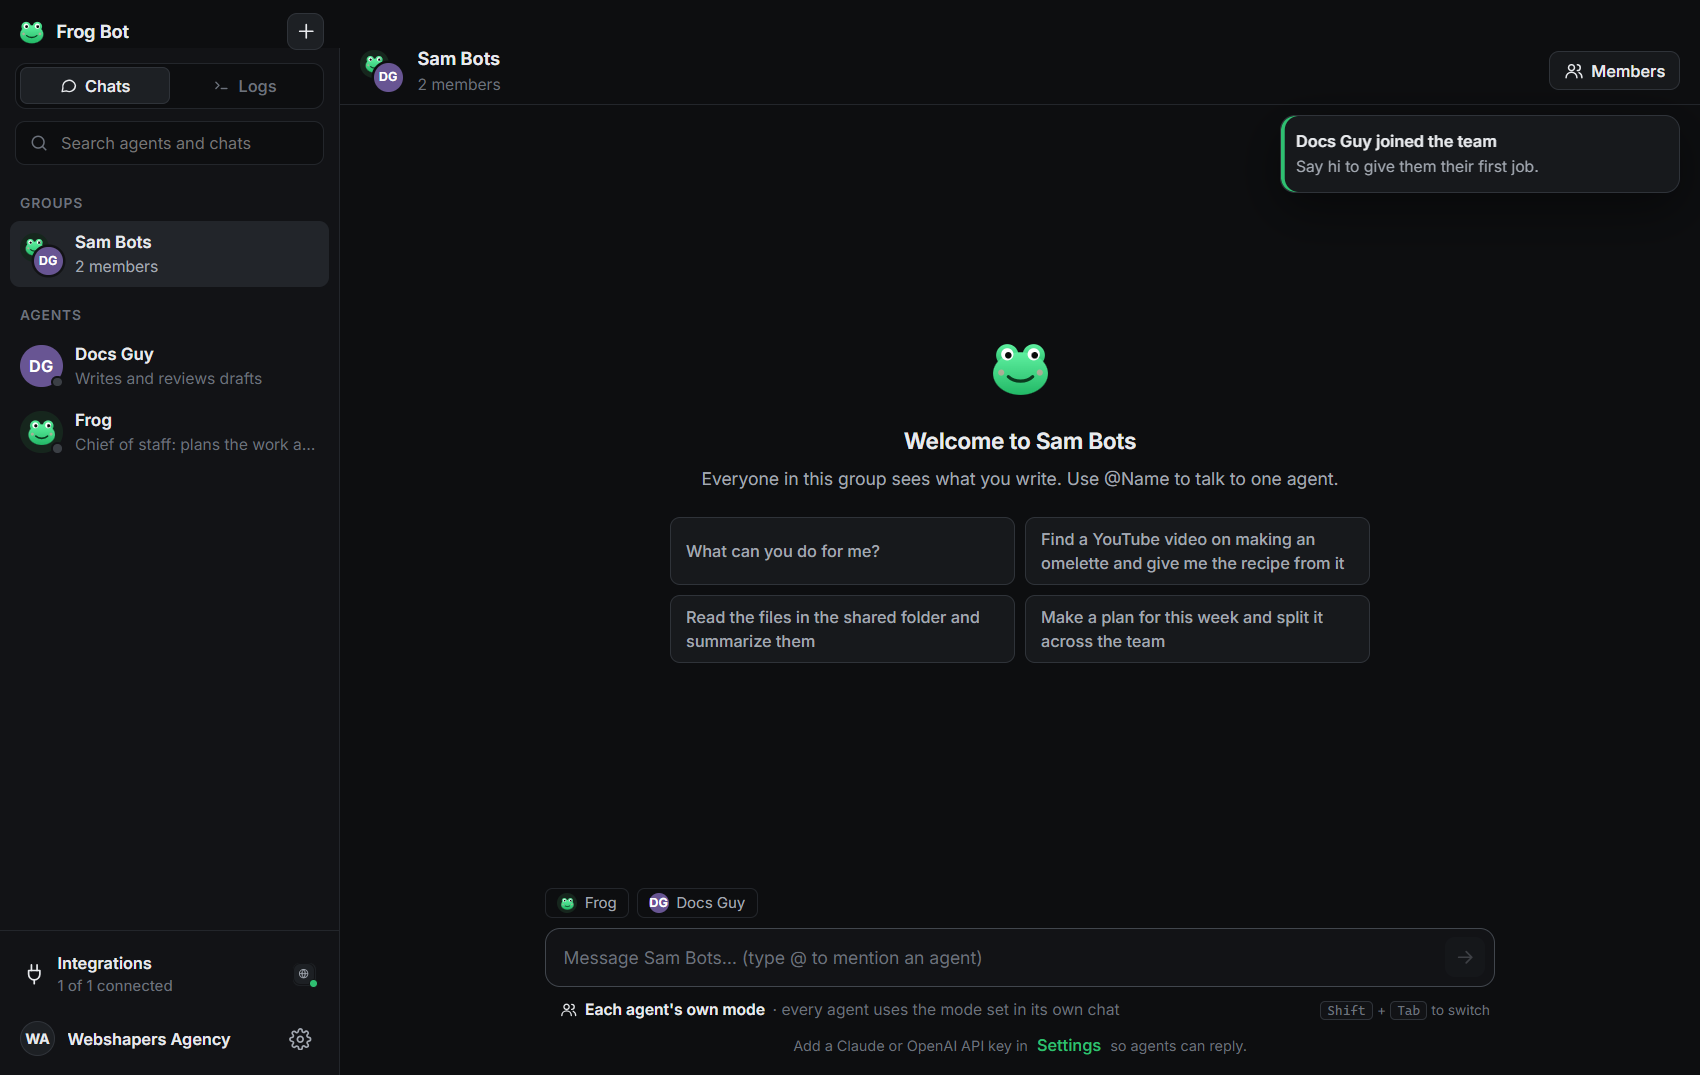
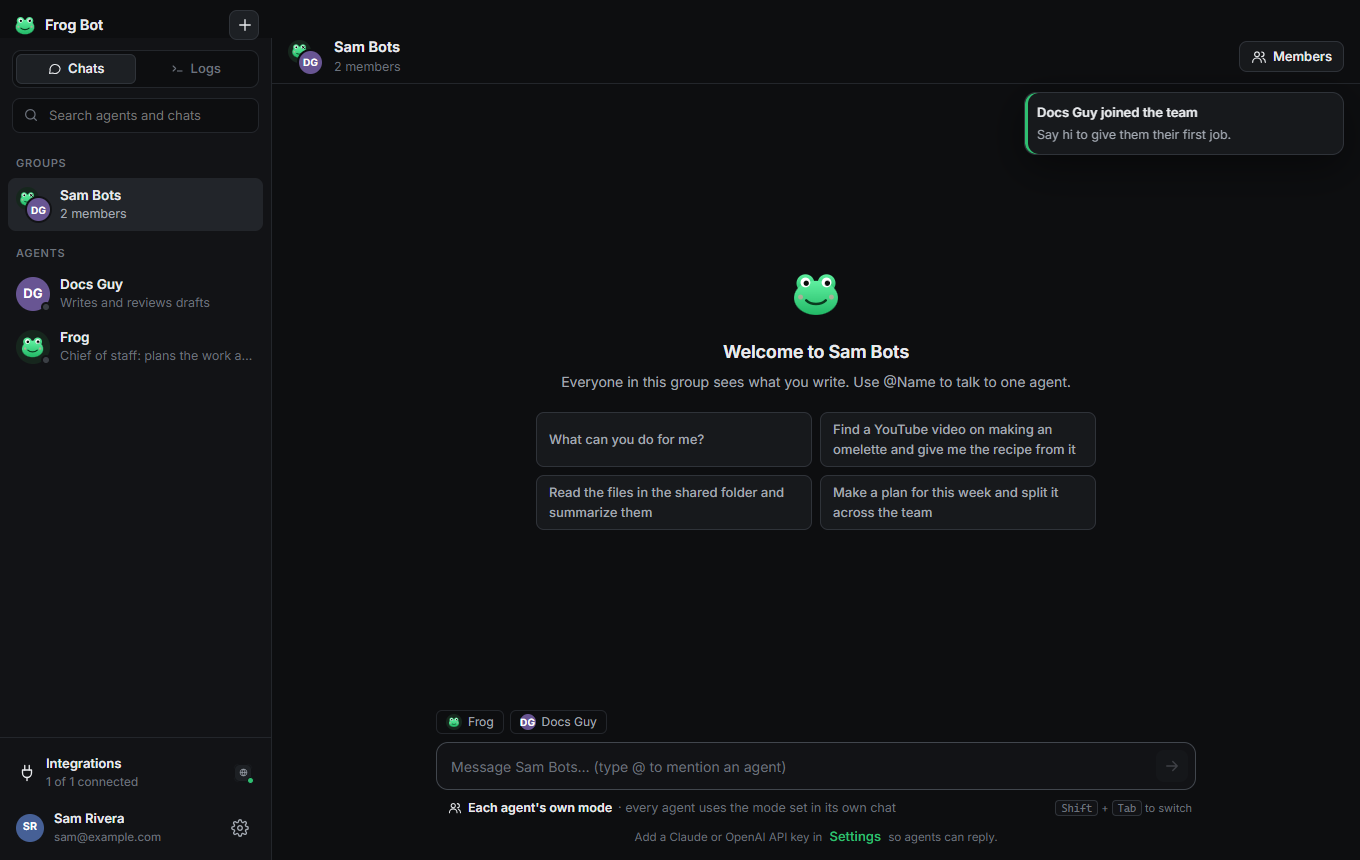
Integrations adjustment

diff --git a/src/main/smoke.ts b/src/main/smoke.ts
@@ -4,7 +4,8 @@ import type { BrowserWindow } from 'electron';
 import type { FrogEngine } from '../core/engine';
 
 interface SmokeContext {
-  engine: FrogEngine;
+  /** The running team (it only exists once someone is signed in). */
+  engine: () => FrogEngine;
   window: BrowserWindow;
   outDir: string;
 }
@@ -22,12 +23,13 @@ const sleep = (ms: number) => new Promise((r) => setTimeout(r, ms));
  * clicks through every screen, saves a screenshot of each, and writes
  * results.json. Exit code 0 means every check passed.
  */
-export async function runSmoke({ engine, window, outDir }: SmokeContext): Promise<number> {
+export async function runSmoke({ engine: getEngine, window, outDir }: SmokeContext): Promise<number> {
   fs.mkdirSync(outDir, { recursive: true });
   const checks: Check[] = [];
+  let engine!: FrogEngine;
   const check = (name: string, ok: boolean, detail?: string) => {
     checks.push({ name, ok, detail });
-    engine.log.info('smoke', `${ok ? 'PASS' : 'FAIL'} ${name}`, detail);
+    engine?.log.info('smoke', `${ok ? 'PASS' : 'FAIL'} ${name}`, detail);
   };
   const js = <T>(code: string) => window.webContents.executeJavaScript(code, true) as Promise<T>;
   const waitFor = async (code: string, timeoutMs = 15000) => {
@@ -110,7 +112,23 @@ export async function runSmoke({ engine, window, outDir }: SmokeContext): Promis
       window.showInactive();
     }
 
+    // FROG_SMOKE_AUTH: start signed out and create an account through the real screen.
+    if (process.env.FROG_SMOKE_AUTH) {
+      check('Sign-in screen shows when signed out', await waitFor(`document.querySelector('[data-testid="auth-screen"]')`, 20000));
+      await click('[data-testid="auth-to-sign-up"]');
+      await typeInto('[data-testid="auth-name"]', 'Sam Rivera');
+      await typeInto('[data-testid="auth-email"]', 'sam@example.com');
+      await typeInto('[data-testid="auth-password"]', '12345');
+      await click('[data-testid="auth-submit"]');
+      check('Password under 6 characters is refused', await waitFor(`document.querySelector('[data-testid="auth-error"]')?.textContent.includes('6 characters')`, 5000));
+      await typeInto('[data-testid="auth-password"]', 'frog-123');
+      await sleep(200);
+      await shot('00-sign-up');
+      await click('[data-testid="auth-submit"]');
+    }
+
     check('UI loads', await waitFor(`document.querySelector('[data-testid="app-ready"]')`, 20000));
+    engine = getEngine();
     if (!process.env.FROG_SMOKE_LIVE) check('Onboarding shows when there is no API key', await waitFor(`document.querySelector('[data-testid="onboarding"]')`, 5000));
     await shot('01-onboarding');
     await click('[data-testid="onboarding-skip"]');
@@ -323,6 +341,15 @@ export async function runSmoke({ engine, window, outDir }: SmokeContext): Promis
     check('Log file written', fs.readdirSync(engine.paths.logsDir).some((f) => f.endsWith('.log')));
     engine.flush();
     check('State saved', fs.existsSync(path.join(engine.paths.stateDir, 'agents.json')));
+
+    if (process.env.FROG_SMOKE_AUTH) {
+      check('Team lives in the account folder', engine.paths.root.includes(`${path.sep}accounts${path.sep}`));
+      await click('[data-testid="open-profile"]');
+      check('Profile opens from the sidebar', await waitFor(`document.querySelector('[data-testid="profile-sheet"]')`, 5000));
+      await shot('00b-profile');
+      await click('[data-testid="sign-out"]');
+      check('Sign out returns to the sign-in screen', await waitFor(`document.querySelector('[data-testid="auth-screen"]')`, 15000));
+    }
   } catch (err) {
     check('Smoke run finished without crashing', false, err instanceof Error ? err.stack : String(err));
   }

diff --git a/src/main/main.ts b/src/main/main.ts
@@ -18,7 +18,7 @@ import {
 } from 'electron';
 import config from '../../config/frogbot.config.json';
 import { FrogEngine, defaultPlatformName, type AppConfig, type EngineHost } from '../core/engine';
-import { AccountManager, SupabaseAuth } from '../core/auth';
+import { AccountManager, MemoryAuth, SupabaseAuth } from '../core/auth';
 import { FrogPaths } from '../core/paths';
 import { FileSecretBox } from '../core/secrets';
 import { AUTH_API_METHODS, FROG_API_METHODS, type AuthApi, type FrogApi } from '../shared/types';
@@ -122,13 +122,18 @@ const host: EngineHost = {
 // The self-test uses a throwaway folder; skip the keychain so it can never prompt.
 const encryptionAvailable = () => !smokeDir && safeStorage.isEncryptionAvailable();
 
-/** Accounts are on when the app ships with a sign-in service (never in the self-test). */
+/**
+ * Accounts are on when the app ships with a sign-in service. The self-test never
+ * uses the real one: FROG_SMOKE_AUTH gives it a sign-in service in memory.
+ */
 function createAccounts() {
   const base = new FrogPaths(smokeDir ? path.join(smokeDir, 'FrogsWorld') : undefined).root;
   const settings = (config as { accounts?: { supabaseUrl?: string; supabaseAnonKey?: string } }).accounts ?? {};
   const supabaseUrl = process.env.FROG_SUPABASE_URL || settings.supabaseUrl || '';
   const supabaseAnonKey = process.env.FROG_SUPABASE_ANON_KEY || settings.supabaseAnonKey || '';
-  const backend = !smokeDir && supabaseUrl && supabaseAnonKey ? new SupabaseAuth({ supabaseUrl, supabaseAnonKey }) : null;
+  const backend = smokeDir
+    ? process.env.FROG_SMOKE_AUTH ? new MemoryAuth() : null
+    : supabaseUrl && supabaseAnonKey ? new SupabaseAuth({ supabaseUrl, supabaseAnonKey }) : null;
   return new AccountManager(base, backend, {
     seal: (plain) => (encryptionAvailable() ? 'enc:' + safeStorage.encryptString(plain).toString('base64') : plain),
     open: (sealed) => (sealed.startsWith('enc:') ? safeStorage.decryptString(Buffer.from(sealed.slice(4), 'base64')) : sealed),
@@ -388,7 +393,7 @@ app.whenReady().then(async () => {
   if (!smokeDir) createTray();
 
   if (smokeDir) {
-    const code = await runSmoke({ engine: team(), window: mainWindow!, outDir: smokeDir });
+    const code = await runSmoke({ engine: team, window: mainWindow!, outDir: smokeDir });
     quitting = true;
     app.exit(code);
   }

diff --git a/src/renderer/components/AuthScreen.tsx b/src/renderer/components/AuthScreen.tsx
@@ -41,12 +41,12 @@ export function AuthScreen({ onSignedIn }: { onSignedIn: (status: AuthStatus) =>
           {signUp && (
             <label className="field">
               <span>Your name</span>
-              <input className="input" autoFocus autoComplete="name" value={name} onChange={(e) => setName(e.target.value)} data-testid="auth-name" />
+              <input className="input" autoFocus autoComplete="name" value={name} onChange={(e) => { setName(e.target.value); setError(''); }} data-testid="auth-name" />
             </label>
           )}
           <label className="field">
             <span>Email</span>
-            <input className="input" type="email" autoFocus={!signUp} autoComplete="email" value={email} onChange={(e) => setEmail(e.target.value)} data-testid="auth-email" />
+            <input className="input" type="email" autoFocus={!signUp} autoComplete="email" value={email} onChange={(e) => { setEmail(e.target.value); setError(''); }} data-testid="auth-email" />
           </label>
           <label className="field">
             <span>Password</span>
@@ -56,7 +56,7 @@ export function AuthScreen({ onSignedIn }: { onSignedIn: (status: AuthStatus) =>
               autoComplete={signUp ? 'new-password' : 'current-password'}
               placeholder={signUp ? 'At least 6 characters' : ''}
               value={password}
-              onChange={(e) => setPassword(e.target.value)}
+              onChange={(e) => { setPassword(e.target.value); setError(''); }}
               data-testid="auth-password"
             />
           </label>

diff --git a/src/core/auth.ts b/src/core/auth.ts
@@ -254,3 +254,32 @@ export class AccountManager {
     fs.rmSync(this.sessionFile, { force: true });
   }
 }
+
+/** A sign-in service that lives in memory: for the self-test, so it never touches the real one. */
+export class MemoryAuth implements AuthBackend {
+  private users = new Map<string, { id: string; password: string; name: string }>();
+
+  private session(email: string): AccountSession {
+    const u = this.users.get(email)!;
+    return { user: { id: u.id, email, name: u.name }, accessToken: `access-${u.id}`, refreshToken: `${email}`, expiresAt: Date.now() + 3600_000 };
+  }
+
+  async signUp(email: string, password: string, name: string) {
+    if (this.users.has(email)) throw new Error('There is already an account with this email. Sign in instead.');
+    this.users.set(email, { id: `test-user-${this.users.size + 1}`, password, name });
+    return this.session(email);
+  }
+
+  async signIn(email: string, password: string) {
+    if (this.users.get(email)?.password !== password) throw new Error('That email and password do not match an account.');
+    return this.session(email);
+  }
+
+  async refresh(refreshToken: string) {
+    if (!this.users.has(refreshToken)) throw new Error('Invalid refresh token');
+    return this.session(refreshToken);
+  }
+
+  async signOut() {}
+  async updateName() {}
+}
